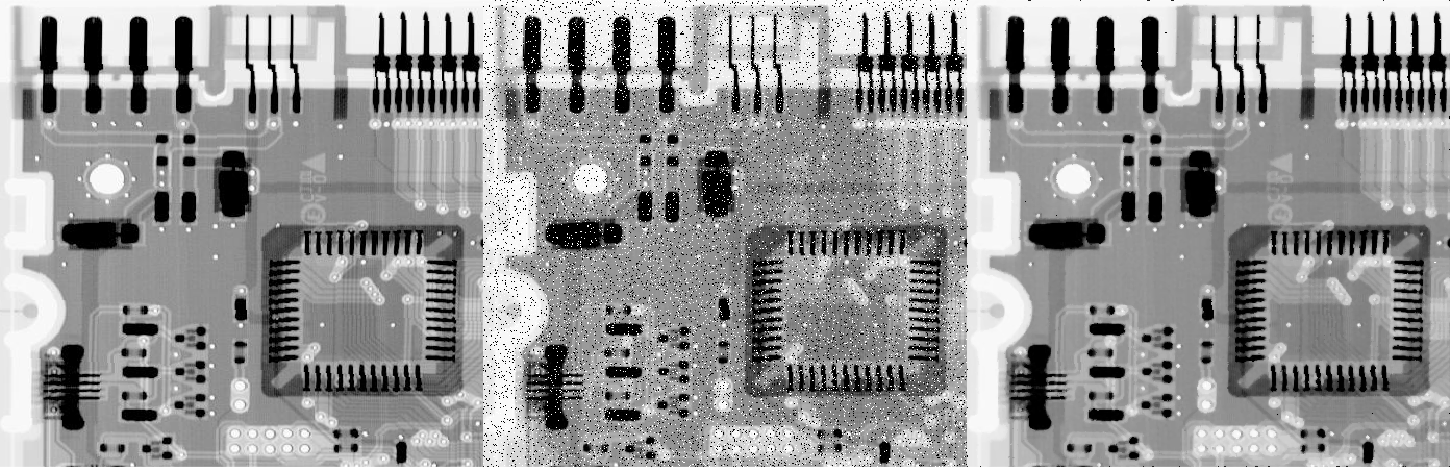
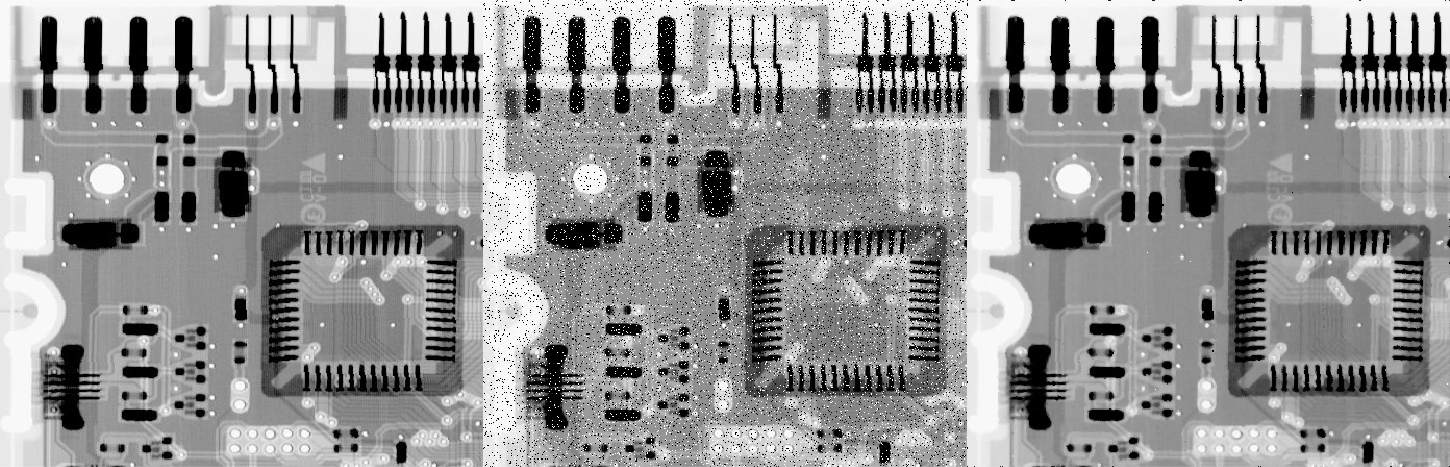
Ch5.4 Adaptive Filtering

Changed region(s): [[0.3414, 0.0, 0.6828, 1.0]]

diff --git a/Ch5/Ch5.4.Restoration in the Presence of Noise Only - Spatial Filtering/AdaptiveMedianFilter.m b/Ch5/Ch5.4.Restoration in the Presence of Noise Only - Spatial Filtering/AdaptiveMedianFilter.m
@@ -1,0 +1,75 @@
+function [FilteredImage] = AdaptiveMedianFilter(image,StartWindowSize, MaxWindowSize)
+%ADAPTIVEMEDIANFILTER 이 함수의 요약 설명 위치
+%   자세한 설명 위치
+if size(image, 3) == 3 
+    image = rgb2gray(image);
+end
+
+n = floor(StartWindowSize/2);
+[height, width] = size(image); % 입력 영상의 높이와 너비 추출
+FilteredImage = zeros([height, width]); % 입력 영상의 크기에 따라서 스무딩 영상 초기화
+image = double(image);
+PaddedImage = zeros([height+2*n, width+2*n]);
+PaddedImage(n+1:height+n, n+1:width+n) = image;
+
+CurrentWindowSize = StartWindowSize;
+
+for i=n+1:height+n
+    for j=n+1:width+n
+        % STEP A-1. Extract Local Image and sort by pixel value
+%         LocalImage = PaddedImage(i-n:i+n, j-n:j+n);
+        SortByValue = ExtractLocalImage(PaddedImage, CurrentWindowSize, i, j, height, width);
+%         SortByValue = sort(reshape(LocalImage, [1, CurrentWindowSize^2]));
+        
+        % STEP A-2. Get min, max, median of Local Image
+        zmin = SortByValue(1);
+        zmax = SortByValue(end);
+        zmed = median(SortByValue);
+        zcur = PaddedImage(i, j);
+        
+        % STEP A-3. Calculate A1 and A2
+        A1 = zmed - zmin;
+        A2 = zmed - zmax;
+        
+        % STEP A-4. Check sign of A1 and A2
+        if (A1 > 0) && (A2 < 0) % Enter to Level B
+            % STEP B-1. Calculate B1 and B2
+            B1 = zcur - zmin;
+            B2 = zcur - zmax;
+            
+            % STEP B-2. Check sign of B1 and B2
+            if (B1 > 0) && (B2 < 0)
+                FilteredImage(i - n, j - n) = zcur;
+            else
+                FilteredImage(i - n, j - n) = zmed;
+            end
+        else % Increase the size of window and repeat Level A until size of window is larger than max size window
+            CurrentWindowSize = CurrentWindowSize + 2;
+            if CurrentWindowSize > MaxWindowSize
+                FilteredImage(i - n, j - n) = zmed;
+                CurrentWindowSize = StartWindowSize;
+            end
+        end
+    end
+end
+FilteredImage = uint8(FilteredImage);
+
+end
+
+function LocalImage = ExtractLocalImage(image, WindowSize, i, j, height, width)
+cnt = 0;
+LocalImage = [];
+for si=-floor(WindowSize/2) : floor(WindowSize/2)
+    if (i + si) < 1 || (i + si) > height
+        continue
+    end
+    for sj=-floor(WindowSize/2) : floor(WindowSize/2)
+        if (j + sj) < 1 || (j + sj) > width
+            continue
+        end
+        cnt = cnt + 1;
+        LocalImage = [LocalImage, image(i + si, j + sj)];
+    end
+end
+LocalImage = sort(LocalImage);
+end

diff --git a/Ch5/Ch5.4.Restoration in the Presence of Noise Only - Spatial Filtering/AdaptiveLocalNoiseReductionFilter.m b/Ch5/Ch5.4.Restoration in the Presence of Noise Only - Spatial Filtering/AdaptiveLocalNoiseReductionFilter.m
@@ -1,0 +1,33 @@
+function [FilteredImage] = AdaptiveLocalNoiseReductionFilter(image,windowSize)
+%ADAPTIVELOCALNOISEREDUCTIONFILTER 이 함수의 요약 설명 위치
+%   자세한 설명 위치
+if size(image, 3) == 3 
+    image = rgb2gray(image);
+end
+
+kernel = ones([windowSize, windowSize], 'double'); % 커널 정의
+n = floor(windowSize/2);
+
+[height, width] = size(image); % 입력 영상의 높이와 너비 추출
+FilteredImage = zeros([height, width]); % 입력 영상의 크기에 따라서 스무딩 영상 초기화
+image = double(image);
+PaddedImage = zeros([height+2*n, width+2*n]);
+PaddedImage(n+1:height+n, n+1:width+n) = image;
+LocalMean = zeros([height, width]);
+LocalVar = zeros([height, width]);
+
+for i=n+1:height+n
+    for j=n+1:width+n
+        LocalMean(i-n, j-n) = mean(PaddedImage(i-n:i+n, j-n:j+n), 'all');
+        LocalVar(i-n, j-n) = var(PaddedImage(i-n:i+n, j-n:j+n), 0, 'all');
+    end
+end
+
+nvar = sum(LocalVar(:))/(height * width);
+LocalVar = max(LocalVar,nvar);   
+temp = PaddedImage(n+1:height+n, n+1:width+n);
+
+FilteredImage = temp - nvar./LocalVar .* (temp - LocalMean);
+FilteredImage = uint8(FilteredImage);
+end
+

diff --git a/Ch5/Ch5.4.Restoration in the Presence of Noise Only - Spatial Filtering/main.m b/Ch5/Ch5.4.Restoration in the Presence of Noise Only - Spatial Filtering/main.m
@@ -89,3 +89,23 @@ imshow([I_gaussianNoise I_blackwhite;
         ArithmeticSmoothing GeometricSmoothing;
         MedianSmoothing AlphaTrimmedSmoothing])
 saveas(gcf, './result/MultiNoiseExample.png');
+%% Adaptive Filter
+
+% Adaptive, Local Noise Reduction Filter
+I = imread('../../example/Ch5/Fig0513(a)(ckt_gaussian_var_1000_mean_0).tif');
+ArithmeticSmoothing = ArithmeticMeanFilter(I, 7);
+GeometricSmoothing = GeometricMeanFilter(I, 7);
+FilteredImage = AdaptiveLocalNoiseReductionFilter(I, 7);
+
+figure(7);
+imshow([I ArithmeticSmoothing; 
+        GeometricSmoothing FilteredImage])
+saveas(gcf, './result/AdaptiveLocalNoiseReductionFilterExample.png');
+
+% Adaptive Median Filter
+I = imread('../../example/Ch5/Fig0514(a)(ckt_saltpep_prob_pt25).tif');
+MedianSmoothing = MedianFilter(I, 7);
+FilteredImage=AdaptiveMedianFilter(I, 3, 7);
+figure(8);
+imshow([I MedianSmoothing FilteredImage])
+saveas(gcf, './result/AdaptiveMedianFilterExample.png');

diff --git a/Ch5/Ch5.4.Restoration in the Presence of Noise Only - Spatial Filtering/MedianFilter.m b/Ch5/Ch5.4.Restoration in the Presence of Noise Only - Spatial Filtering/MedianFilter.m
@@ -14,7 +14,7 @@ end
 n = floor(windowSize/2);
 
 [height, width] = size(image); % 입력 영상의 높이와 너비 추출
-FilteredImage = zeros([height, width], 'uint8'); % 입력 영상의 크기에 따라서 스무딩 영상 초기화
+FilteredImage = zeros([height, width]); % 입력 영상의 크기에 따라서 스무딩 영상 초기화
 image = double(image);
 PaddedImage = zeros([height+2*n, width+2*n]);
 PaddedImage(n+1:height+n, n+1:width+n) = image;
